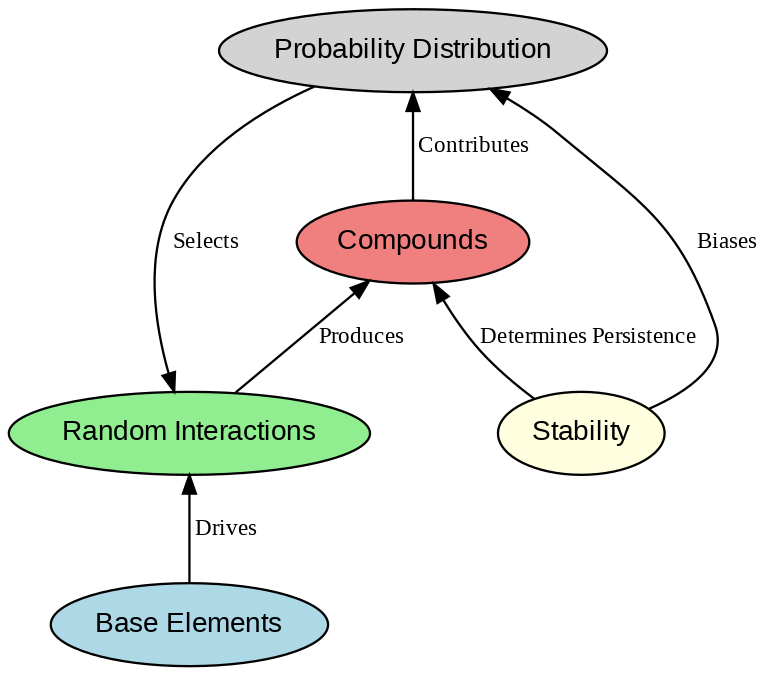
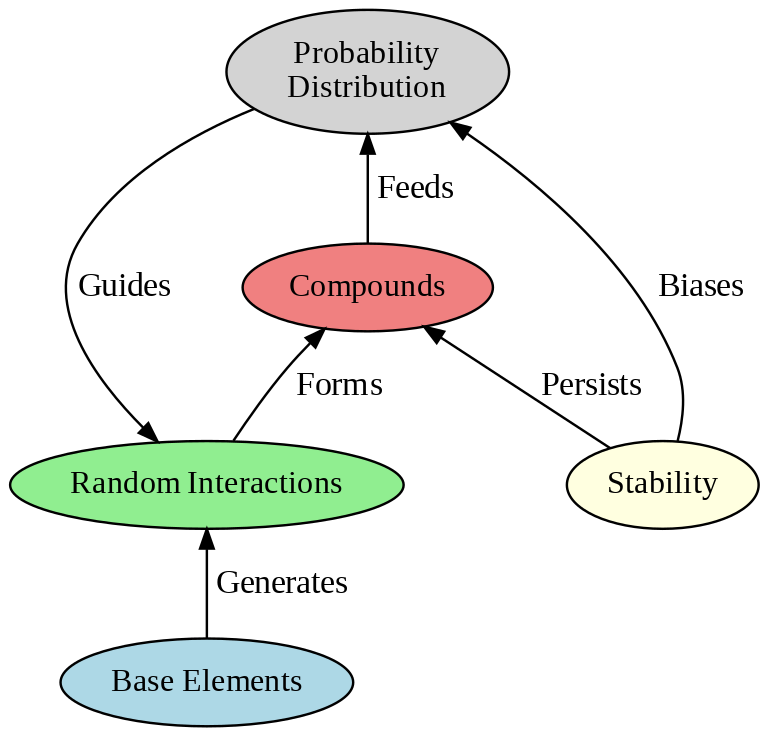
Some graphics changes for clarity

diff --git a/main.tex b/main.tex
@@ -106,7 +106,7 @@ Bayesian Assembly (BA) systems distinguish themselves by their narrow focus on s
 
 \section{BA System Fundamentals}
 
-We define Bayesian Assembly (BA) Systems as follows: a population of base elements \( A, B, C, \dots \) capable of forming compounds through local interactions of unspecified forces. Compounds are represented as concatenations of base elements and other compounds, thus they can be repetitive and recursive. The elements could exist in our physical universe, or in an abstract universe. The stability of compounds is an abstraction that determines only one thing: how many generations they will persist. For example, if compound AAB has a stability of 10 then it will persist for 10 generations and then disappear. In contrast to bidirectional models like MAK, where dissipation of patterns is modeled explicitly, BA systems just allow the patterns to disappear. Since we do not constrain the interactions themselves in any way, compounds that have a stability of 0 may get created and destroyed in the same generation, which simulates impossible interactions. We allow the base elements to regenerate at a constant rate in every generation. This ensures a continuous influx of resources, preventing stagnation and enabling sustained exploration of the state space. This assumption mirrors the continuous flow stirred tank reactor (CFSTR) methodology commonly employed in chemical reaction modeling, where reactants are replenished at a constant rate to maintain steady-state conditions \cite{fogler1999chemical}. The analogy highlights the foundational role of resource replenishment in both theoretical and experimental systems for exploring dynamic behaviors and emergent patterns.
+We define Bayesian Assembly (BA) Systems as follows: a population of base elements \( A, B, C, \dots \) capable of forming compounds through local interactions of unspecified forces. Compounds are represented as strings formed by concatenating base elements and existing compounds, allowing for repetitive and recursive patterns. The elements could exist in our physical universe, or in an abstract universe. The stability of compounds is an abstraction that determines only one thing: how many generations they will persist. For example, if compound AAB has a stability of 10 then it will persist for 10 generations and then disappear. In contrast to bidirectional models like MAK, where dissipation of patterns is modeled explicitly, BA systems just allow the patterns to disappear. Since we do not constrain the interactions themselves in any way, compounds that have a stability of 0 may get created and destroyed in the same generation, which simulates impossible interactions. We allow the base elements to regenerate at a constant rate in every generation. This ensures a continuous influx of resources, preventing stagnation and enabling sustained exploration of the state space. This assumption mirrors the continuous flow stirred tank reactor (CFSTR) methodology commonly employed in chemical reaction modeling, where reactants are replenished at a constant rate to maintain steady-state conditions \cite{fogler1999chemical}. The analogy highlights the foundational role of resource replenishment in both theoretical and experimental systems for exploring dynamic behaviors and emergent patterns.
 
 \begin{figure}[htp]
     \centering
@@ -266,7 +266,7 @@ To further investigate the dynamics of BA systems, we represent the state of the
 
 \begin{figure}[h]
     \centering
-    \includegraphics[width=0.5\linewidth]{abc_graph.png}
+    \includegraphics[width=0.7\linewidth]{abc_graph.png}
     \caption{Graph representation of a BA system showing stability (S), and the number of instances or tokens (N) of each base element and compound.}
     \label{fig:abc_sim}
 \end{figure}
@@ -283,7 +283,7 @@ Dynamic graphs have been used for switch-level simulation of transistor networks
 
 \begin{figure}[h]
     \centering
-    \includegraphics[width=1\textwidth,height=0.3\textwidth]{abc_oxi.png}
+    \includegraphics[width=1\textwidth,height=0.4\textwidth]{abc_oxi.png}
     \caption{Reaction network for iron oxidation, illustrating the stepwise formation of stable and intermediate compounds under stability constraints.}
     \label{fig:abc_oxi}
 \end{figure}
@@ -300,12 +300,12 @@ Two reaction graphs from organic chemistry provide illustrative cases for unders
 
 \begin{figure}[h]
     \centering
-    \includegraphics[width=1\textwidth,height=0.45\textwidth]{abc_nano.png}
+    \includegraphics[width=1\textwidth,height=0.55\textwidth]{abc_nano.png}
     \caption{Reaction graph for possible Carbon Nanostructure Assembly}
     \label{fig:abc_nano}
 \end{figure}
 
-Figure~\ref{fig:abc_nano} illustrates an abstract reaction graph depicting the progressive assembly of carbon-based structures, starting from simple carbon monomers (\( \text{C} \)) and hydrogen atoms (\( \text{H} \)). In the early stages, carbon atoms bond to form dimers (\( \text{C}_2 \)) or small hydrocarbons like ethylene (\( \text{C}_2\text{H}_4 \)). Through additional interactions and stabilization processes, these smaller molecules transition into increasingly complex structures, such as benzene (\( \text{C}_6\text{H}_6 \)), which serves as a precursor for planar graphene sheets (\( \text{C}_n \)). Ultimately, graphene sheets curl into carbon nanotubes (\( \text{C}_n\text{H}_m \)), high-stability configurations characterized by their exceptional mechanical and electrical properties. 
+Figure~\ref{fig:abc_nano} illustrates an abstract reaction graph showing the progressive assembly of carbon-based structures, starting from simple carbon monomers (\( \text{C} \)) and hydrogen atoms (\( \text{H} \)). In the early stages, carbon atoms bond to form dimers (\( \text{C}_2 \)) or small hydrocarbons like ethylene (\( \text{C}_2\text{H}_4 \)). Through additional interactions and stabilization processes, these smaller molecules transition into increasingly complex structures, such as benzene (\( \text{C}_6\text{H}_6 \)), which serves as a precursor for planar graphene sheets (\( \text{C}_n \)). Ultimately, graphene sheets curl into carbon nanotubes (\( \text{C}_n\text{H}_m \)), high-stability configurations characterized by their exceptional mechanical and electrical properties. 
 
 The main pathway emphasizes the gradual increase in structural complexity and stability. Alongside this progression, less stable intermediates, such as defective graphene or transient molecules, may arise but typically do not persist due to lower stability. These transient species reflect pathways that are accessible in the reaction space but are pruned over successive iterations. Here, stability \( S(p) \) plays a central role in determining the persistence and influence of each compound. Simple elements (\( \text{C} \), \( \text{H} \)) and early products (\( \text{C}_2 \), \( \text{C}_2\text{H}_4 \)) possess baseline stability values, representing their shorter lifetimes and higher turnover rates. As more complex compounds form, their stability parameters increase, reflecting stronger bonding, lower dissociation rates, and greater resistance to perturbation. Generational updates in a BA model dynamically favor the accumulation of these high-stability patterns, leading to the dominance of advanced nanostructures. In contrast, low-stability pathways fade over time, illustrating how stability-driven selection sculpts the molecular landscape and guides the emergence of ordered, complex systems.
 
